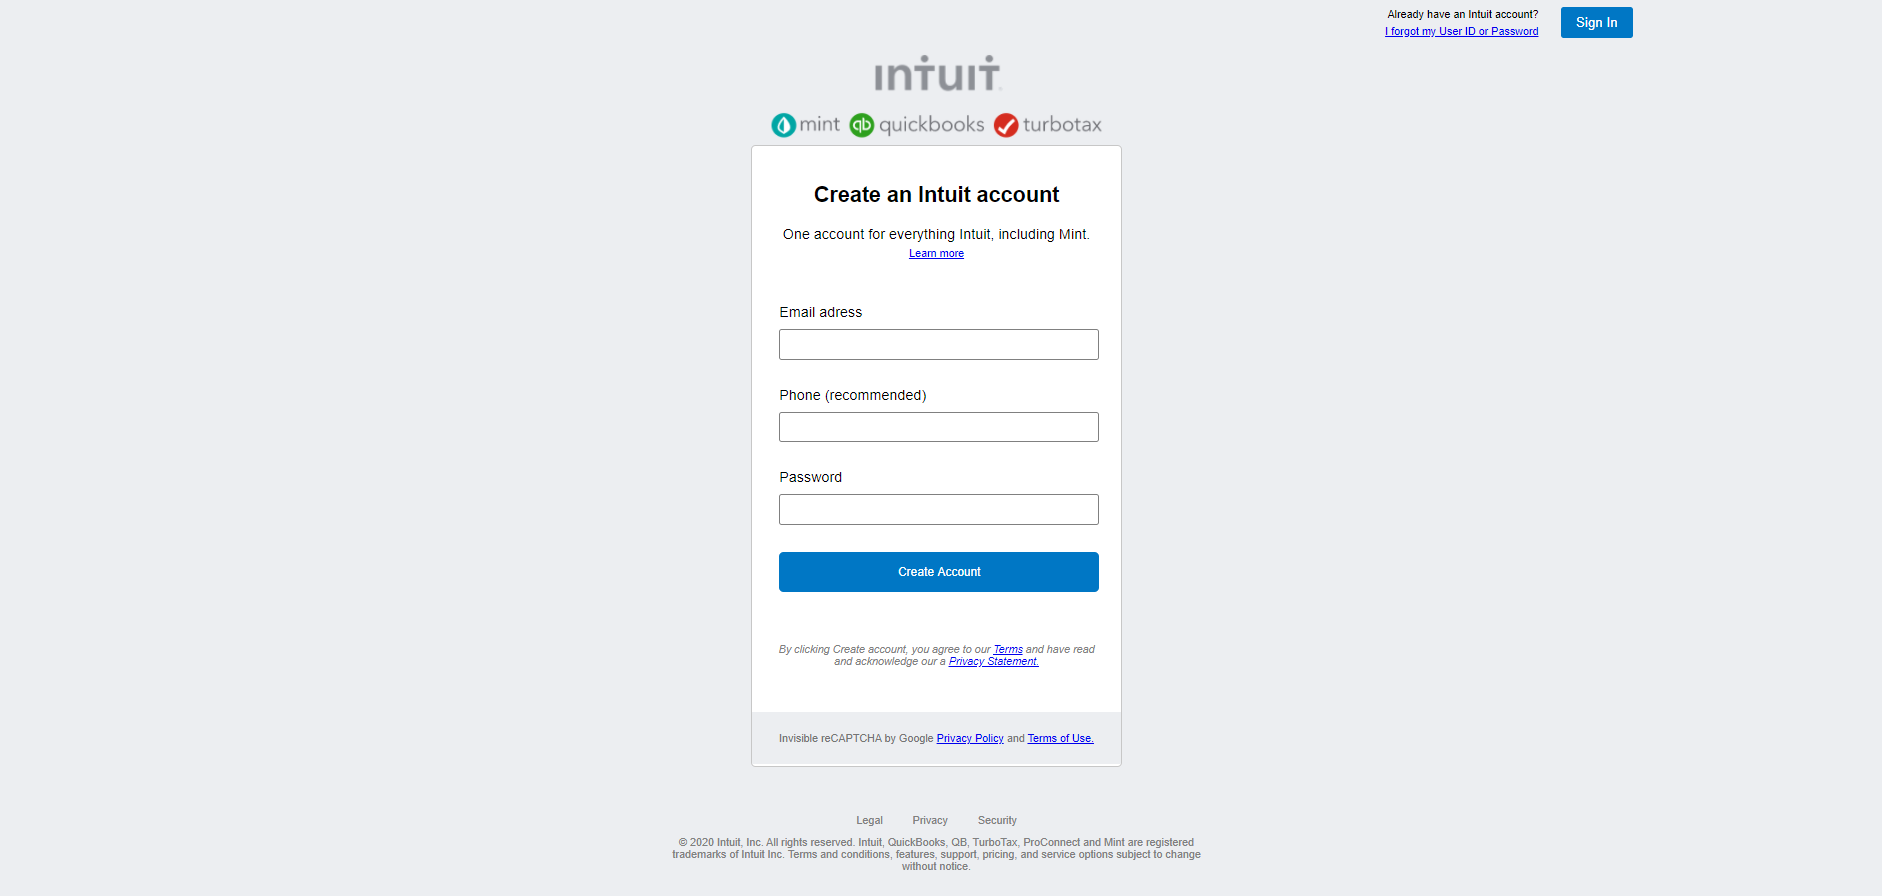
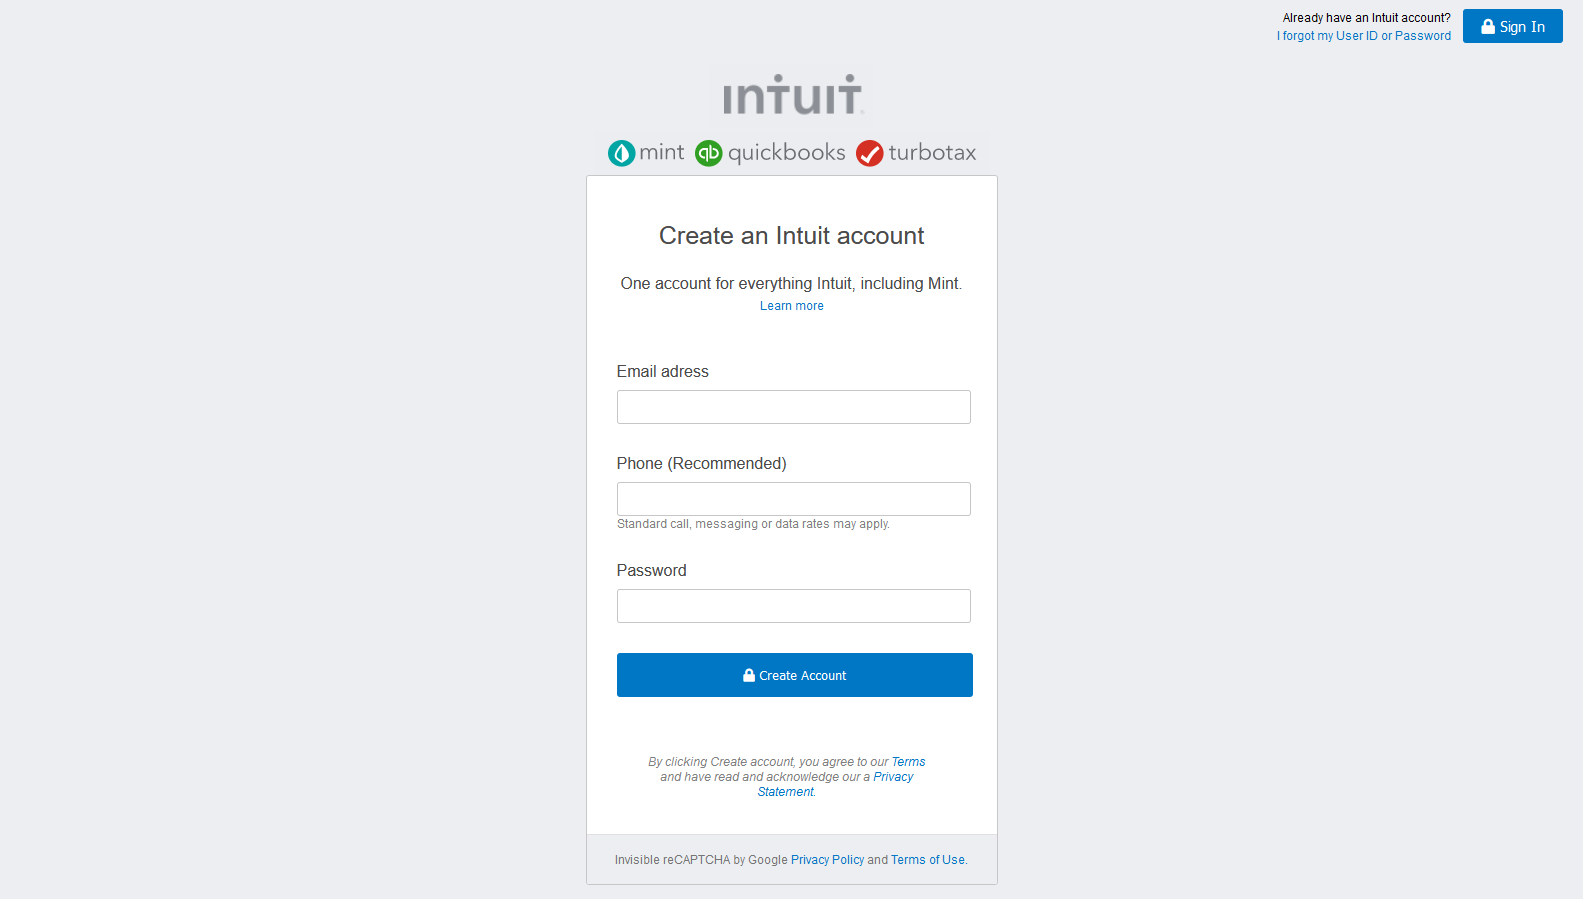
edited README.md file

diff --git a/README.md b/README.md
@@ -1,13 +1,14 @@
 ![](https://img.shields.io/badge/Microverse-blueviolet)
 
-# Forms
+# Form
 
 > We recreate a signup form from Mint.com page with just using HTML and CSS
 
 ![screenshot](./Form-Screenshot.png)
+![screenshot](./Form-Screenshot2.png)
 
 We created a signup form that includes:
-- header
+- header with signin button
 - body with form element
 - footer with legal information
 
@@ -18,7 +19,7 @@ We created a signup form that includes:
 
 ## Live Demo
 
-[Live Demo Link](https://rawcdn.githack.com/jcy2704/Forms/e5221ba648c358668fb6931539ecf57243be067f/index.html)
+[Live Demo Link](https://rawcdn.githack.com/jcy2704/Forms/648b2a83480a11222e6a440fc36731667a6bb25b/index.html)
 
 ## Getting Started
 
